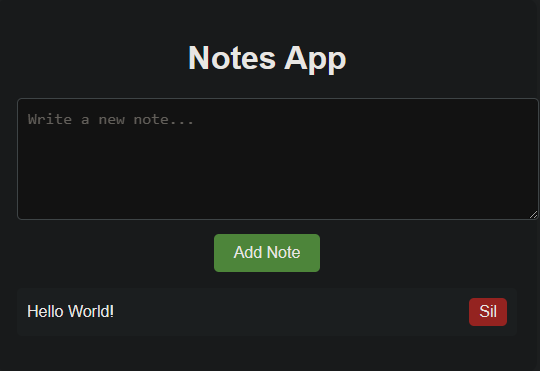
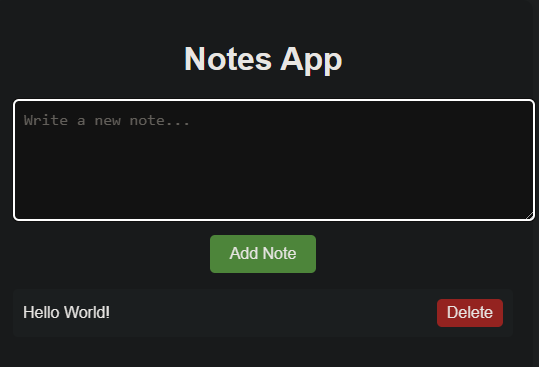
update

diff --git a/frontend/app.js b/frontend/app.js
@@ -12,7 +12,7 @@ document.addEventListener("DOMContentLoaded", () => {
       notesList.innerHTML = "";
       notes.forEach((note, index) => {
         const li = document.createElement("li");
-        li.innerHTML = `${note} <button class="delete" onclick="deleteNote(${index})">Sil</button>`;
+        li.innerHTML = `${note} <button class="delete" onclick="deleteNote(${index})">Delete</button>`;
         notesList.appendChild(li);
       });
     };
